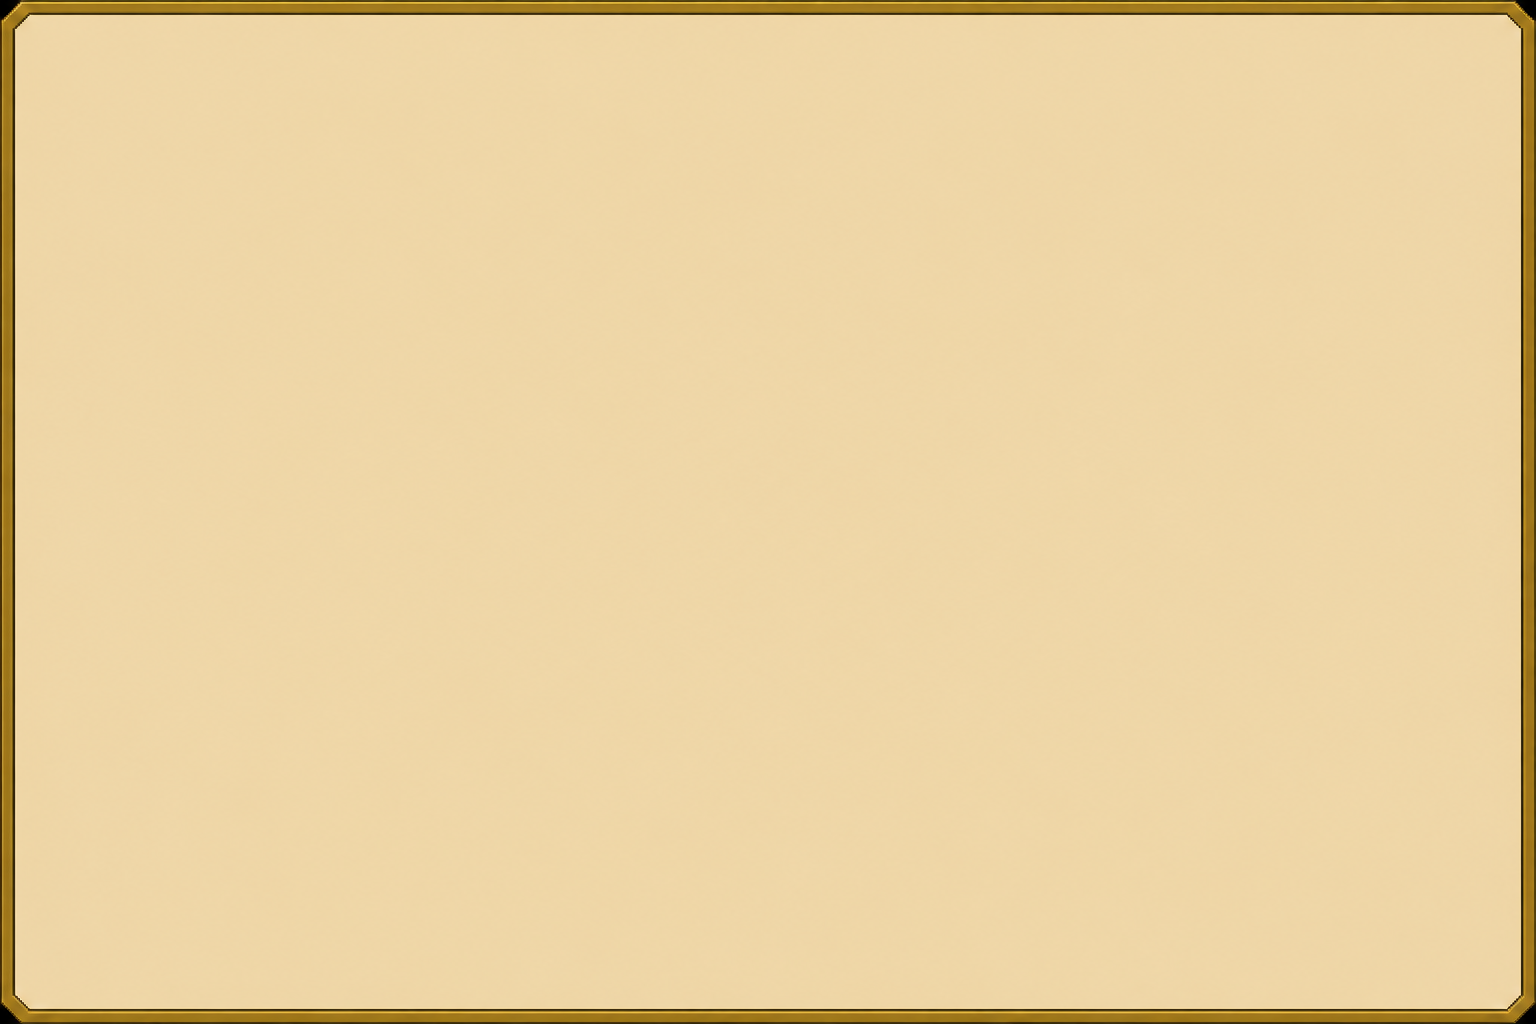
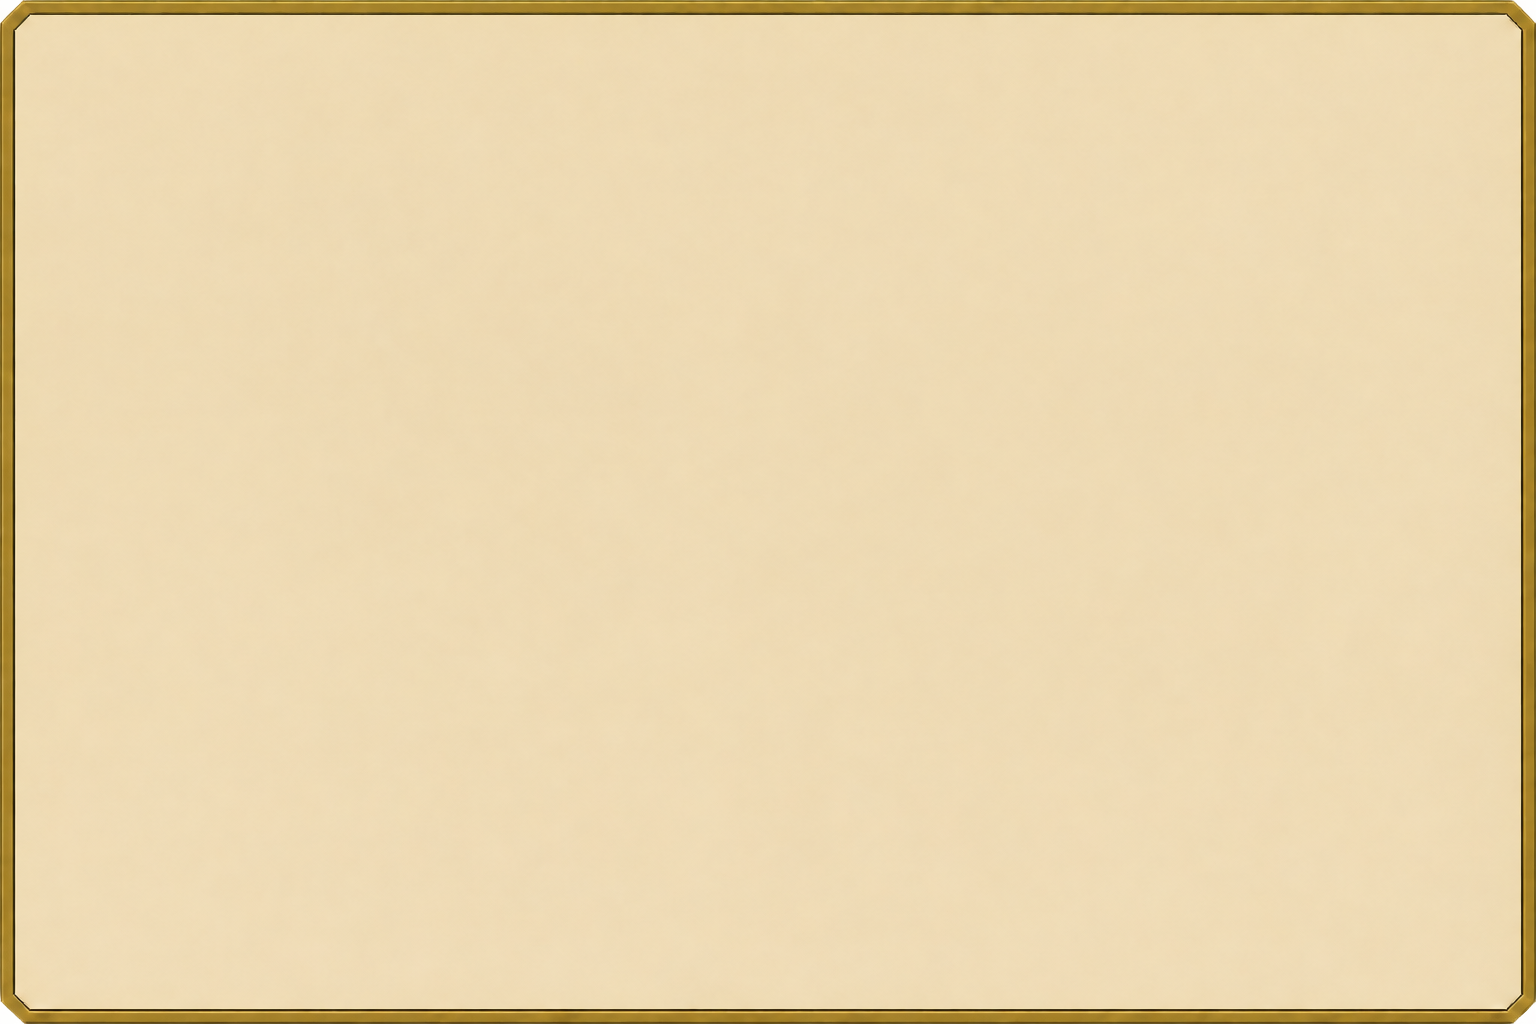
編成画面調整

diff --git a/src/form/form.ts b/src/form/form.ts
@@ -33,6 +33,7 @@ export class FormScene extends Phaser.Scene {
   private manager = new FormationManager([], [])
   private flowers: OwnedFormationFlower[] = []
   private selectedId: number | null = null
+  private portraitIdle?: Phaser.Tweens.Tween
   private filter = 'すべて'
   private sort: FormationSort = '戦力'
   private descending = true
@@ -114,7 +115,7 @@ export class FormScene extends Phaser.Scene {
     this.layout.add(this.add.rectangle(640, 360, 1280, 720, 0x20120a, .14))
     this.content = this.add.container(0, 0); this.layout.add(this.content)
     this.overlay = undefined
-    this.events.once(Phaser.Scenes.Events.SHUTDOWN, () => { this.request++; this.overlay?.destroy(); this.overlay = undefined })
+    this.events.once(Phaser.Scenes.Events.SHUTDOWN, () => { this.request++; this.portraitIdle?.remove(); this.portraitIdle = undefined; this.overlay?.destroy(); this.overlay = undefined })
     const wheel = (pointer: Phaser.Input.Pointer, _objects: Phaser.GameObjects.GameObject[], dx: number, dy: number) => {
       if (!this.dragPreview && !this.dragStart && this.rosterContains(pointer)) this.scrollRoster(this.rosterScroll + (Math.abs(dx) > Math.abs(dy) ? dx : dy) * .5)
     }
@@ -234,10 +235,10 @@ export class FormScene extends Phaser.Scene {
     const hit = this.add.zone(x, y, w, h).setInteractive({ useHandCursor: true }); this.content.add(hit)
     hit.on('pointerover', () => image.setAlpha(.82)).on('pointerout', () => image.setAlpha(1)).on('pointerup', () => { if (this.dragDistance <= 6) action() })
   }
-  private picture(flower: CharacterData, x: number, y: number, size: number): void {
+  private picture(flower: CharacterData, x: number, y: number, size: number): Phaser.GameObjects.Image | undefined {
     const key = `form-${flower.code}`
     if (!this.textures.exists(key)) { this.label(x, y, '画像準備中', 13).setOrigin(.5); return }
-    const image = this.add.image(x, y, key); image.setScale(size / Math.max(image.width, image.height)); this.content.add(image)
+    const image = this.add.image(x, y, key); image.setScale(size / Math.max(image.width, image.height)); this.content.add(image); return image
   }
   private element(flower: CharacterData, x: number, y: number): void {
     this.content.add(this.add.circle(x, y, 13, ELEMENT_COLORS[flower.element] ?? 0x79694f).setStrokeStyle(1, 0xfff4df))
@@ -265,6 +266,7 @@ export class FormScene extends Phaser.Scene {
   }
   private dirty(): boolean { return JSON.stringify(this.saved) !== JSON.stringify(this.manager.getFormation()) }
   private refresh(): void {
+    this.portraitIdle?.remove(); this.portraitIdle = undefined
     this.dragStart = undefined; this.clearFlowerDrag()
     this.rosterMask?.destroy(); this.rosterClip?.destroy()
     this.rosterMask = undefined; this.rosterClip = undefined; this.rosterBody = undefined; this.scrollThumb = undefined
@@ -287,7 +289,10 @@ export class FormScene extends Phaser.Scene {
     const selected = this.flowers.find(f => f.id === this.selectedId)
     if (!selected) { this.label(167, 315, this.loading ? '読み込み中…' : '花を選択してください', 18, '#79694f').setOrigin(.5); return }
     const halo = this.add.graphics().lineStyle(1, 0xc8a86c, .5).strokeCircle(167, 251, 99).strokeCircle(167, 251, 107)
-    this.content.add(halo); this.picture(selected, 167, 248, 170)
+    this.content.add(halo)
+    const portrait = this.picture(selected, 167, 248, 170)
+    // 育成画面と同じ5px・2.3秒のゆっくりした上下運動。花以外のUIは固定する。
+    if (portrait) this.portraitIdle = this.tweens.add({ targets: portrait, y: 243, duration: 2300, yoyo: true, repeat: -1, ease: 'Sine.easeInOut' })
     this.label(167, 367, selected.name, 28).setOrigin(.5)
     this.label(167, 402, `Lv.${selected.level}　${selected.element}属性 / ${selected.role}`, 15).setOrigin(.5)
     this.label(167, 439, `戦力 ${this.manager.getPower(selected).toLocaleString()}`, 24).setOrigin(.5)
@@ -391,7 +396,7 @@ export class FormScene extends Phaser.Scene {
     const content = this.content; this.content = this.beginOverlay()
     if (this.menu === 'filter') {
       // ボタンの下ではなく、同じ行の右側の空きスペースへ展開する。
-      this.panel(491, 335 + ROSTER_TOOLBAR_OFFSET_Y, 479, 51)
+      this.content.add(this.add.nineslice(491 + 479 / 2, 335 + ROSTER_TOOLBAR_OFFSET_Y + 51 / 2, 'form-flower-card-ui', undefined, 479, 51, 12, 12, 12, 12))
       const elements = ['すべて', ...new Set(testData.characters.map(f => f.element))]
       const step = 394 / elements.length
       elements.forEach((element, index) => this.button(500 + step * (index + .5), 360 + ROSTER_TOOLBAR_OFFSET_Y, step - 4, 32, element, () => { this.filter = element; this.rosterScroll = 0; this.refresh() }, this.filter === element))
